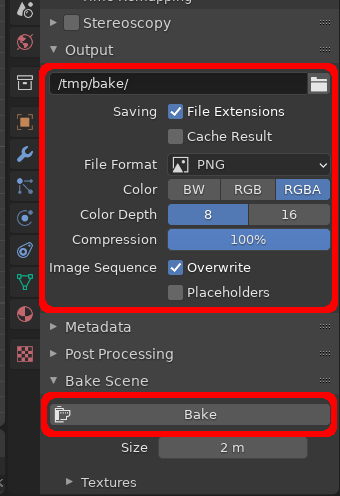
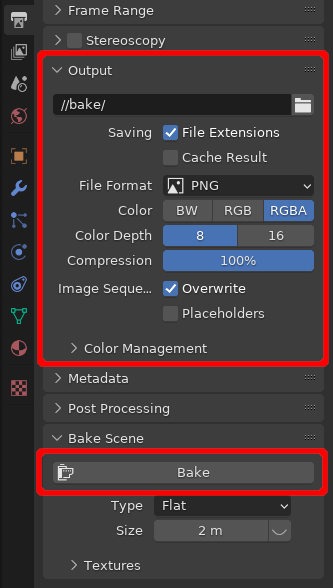
Updating README

diff --git a/README.md b/README.md
@@ -5,8 +5,9 @@ This add-on bakes your scene to textures. This is useful in many situations:
 * Creating trim sheets
 * Creating decals
 * Creating hair cards
-* Creating skyboxes
 * Creating terrain
+* Creating skyboxes
+* Creating HDRIs
 
 The textures are baked super fast, they are anti-aliased, and they are extremely high quality.
 
@@ -42,6 +43,13 @@ The textures are baked super fast, they are anti-aliased, and they are extremely
 
    ![][screenshot3]
 
+4. If you want to bake an HDRI or skybox, change the `Type` to `HDRI`. You should also enable the `Render` option in the `Textures` panel:
+
+   ![][screenshot10]
+
+   You must change the renderer to `Cycles`, save the textures as `OpenEXR` or `RadianceHDR`, and the image height must be half the size of the width (e.g. `4096 x 2048`):
+
+   ![][screenshot11]
 
 ## Tips and advice
 
@@ -81,6 +89,8 @@ The textures are baked super fast, they are anti-aliased, and they are extremely
 
 
 ## Texture Information
+
+* `Render` bakes a texture which is the same as `Render Image (F12)`. This is useful for creating HDRIs, skyboxes, or billboards.
 
 * `Alpha` bakes a black-and-white alpha / opacity / transparency texture.
 
@@ -147,6 +157,8 @@ The textures are baked super fast, they are anti-aliased, and they are extremely
 [screenshot7]: https://github.com/Pauan/blender-bake-scene/raw/master/Screenshot%207.png
 [screenshot8]: https://github.com/Pauan/blender-bake-scene/raw/master/Screenshot%208.png
 [screenshot9]: https://github.com/Pauan/blender-bake-scene/raw/master/Screenshot%209.png
+[screenshot10]: https://github.com/Pauan/blender-bake-scene/raw/master/Screenshot%2010.png
+[screenshot11]: https://github.com/Pauan/blender-bake-scene/raw/master/Screenshot%2011.png
 
 
 ## For programmers
